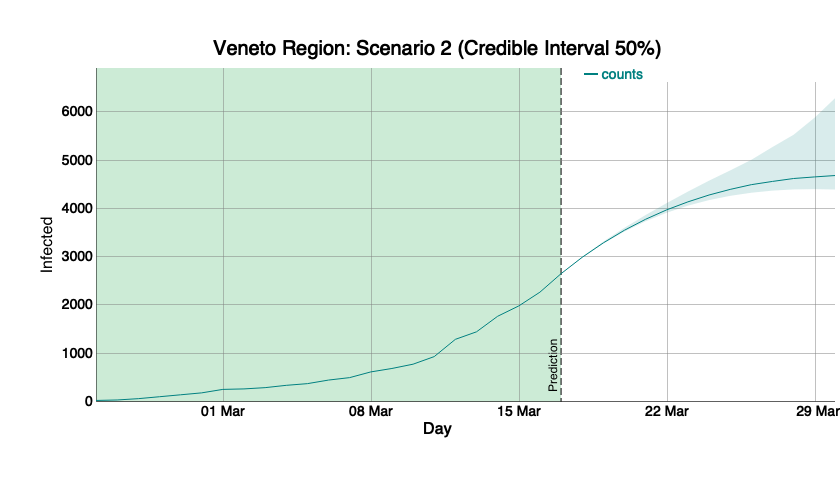
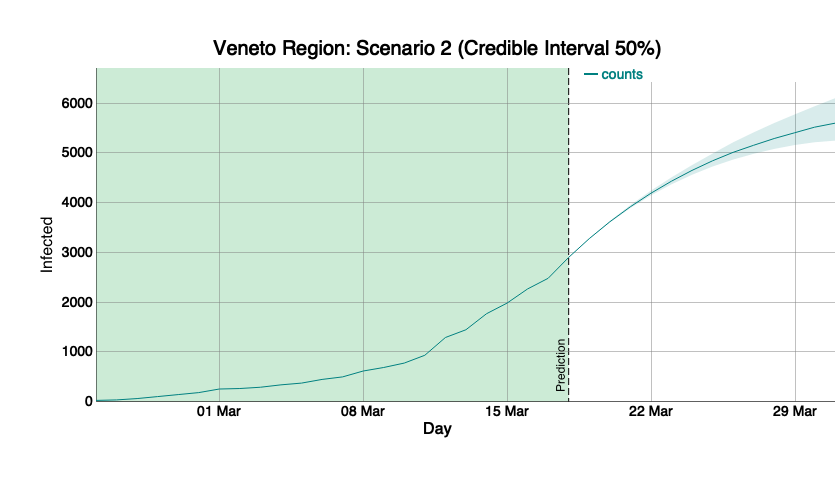
Add home page, navigation and theme

diff --git a/draft_analysis_Veneto_new.md b/draft_analysis_Veneto_new.md
@@ -105,7 +105,7 @@ Download the data from
 
 ## Load dataset
 
-    ## [1] 22
+    ## [1] 23
 
 Several outcomes can be potentially monitored, that is
 
@@ -226,7 +226,7 @@ beta (the slope) and forcing its value to be greater than
 ![](draft_analysis_Veneto_new_files/figure-gfm/R0%20forecast-1.png)<!-- -->
 
 R0 passes from a value of 5.64 in the initial phase to an estimated
-value of 1.32 at the ending of the 14-days forecast.
+value of 1.29 at the ending of the 14-days forecast.
 
 We want to make a short term forecast (14 days) with 3 scenario, based
 on the number of exposed people:
@@ -259,14 +259,14 @@ the previous estimation
 I0<-dat_csv$totale_attualmente_positivi[dim(dat_csv)[1]]; I0
 ```
 
-    ## [1] 2274
+    ## [1] 2488
 
 ``` r
 # initial number of recovered
 R0<-dat_csv$dimessi_guariti[dim(dat_csv)[1]]; R0
 ```
 
-    ## [1] 130
+    ## [1] 136
 
 ``` r
 # Veneto Region population
@@ -305,16 +305,16 @@ model1 <- bsts(log(beta_vec),
                niter = 1000)
 ```
 
-    ## =-=-=-=-= Iteration 0 Tue Mar 17 12:02:32 2020 =-=-=-=-=
-    ## =-=-=-=-= Iteration 100 Tue Mar 17 12:02:32 2020 =-=-=-=-=
-    ## =-=-=-=-= Iteration 200 Tue Mar 17 12:02:32 2020 =-=-=-=-=
-    ## =-=-=-=-= Iteration 300 Tue Mar 17 12:02:32 2020 =-=-=-=-=
-    ## =-=-=-=-= Iteration 400 Tue Mar 17 12:02:32 2020 =-=-=-=-=
-    ## =-=-=-=-= Iteration 500 Tue Mar 17 12:02:32 2020 =-=-=-=-=
-    ## =-=-=-=-= Iteration 600 Tue Mar 17 12:02:32 2020 =-=-=-=-=
-    ## =-=-=-=-= Iteration 700 Tue Mar 17 12:02:32 2020 =-=-=-=-=
-    ## =-=-=-=-= Iteration 800 Tue Mar 17 12:02:32 2020 =-=-=-=-=
-    ## =-=-=-=-= Iteration 900 Tue Mar 17 12:02:32 2020 =-=-=-=-=
+    ## =-=-=-=-= Iteration 0 Tue Mar 17 18:27:40 2020 =-=-=-=-=
+    ## =-=-=-=-= Iteration 100 Tue Mar 17 18:27:40 2020 =-=-=-=-=
+    ## =-=-=-=-= Iteration 200 Tue Mar 17 18:27:40 2020 =-=-=-=-=
+    ## =-=-=-=-= Iteration 300 Tue Mar 17 18:27:40 2020 =-=-=-=-=
+    ## =-=-=-=-= Iteration 400 Tue Mar 17 18:27:40 2020 =-=-=-=-=
+    ## =-=-=-=-= Iteration 500 Tue Mar 17 18:27:40 2020 =-=-=-=-=
+    ## =-=-=-=-= Iteration 600 Tue Mar 17 18:27:40 2020 =-=-=-=-=
+    ## =-=-=-=-= Iteration 700 Tue Mar 17 18:27:40 2020 =-=-=-=-=
+    ## =-=-=-=-= Iteration 800 Tue Mar 17 18:27:40 2020 =-=-=-=-=
+    ## =-=-=-=-= Iteration 900 Tue Mar 17 18:27:41 2020 =-=-=-=-=
 
 ``` r
 par(mfrow = c(1,1))
@@ -426,7 +426,7 @@ mu.upper<-c(dat_csv$totale_attualmente_positivi,I_seir_upr*N)
 mu.med<-xts(c(dat_csv$totale_attualmente_positivi,I_seir_med*N),order.by = c(days.before,days.ahead),frequency = 7)
 counts<-mu.med
 mu<-xts(x = as.matrix(cbind(counts,mu.lower,mu.upper)) , order.by = c(days.before,days.ahead))
-p <- dygraph(mu,main=paste("Veneto Region: Scenario 3  (Credible Interval ",100*50,"%)",sep = ""),ylab=" Infected",xlab="Day",height=400,width=800) %>%  dySeries(c("mu.lower", "counts", "mu.upper"),label="counts")
+p <- dygraph(mu,main=paste("Veneto Region: Scenario 3  (Credible Interval ",100*0.50,"%)",sep = ""),ylab=" Infected",xlab="Day",height=400,width=800) %>%  dySeries(c("mu.lower", "counts", "mu.upper"),label="counts")
 p<-p %>% dyLegend(show = "always", hideOnMouseOut = FALSE) %>%  dyShading(from = days.ahead[1], to = days.ahead[step.ahead], color = "#CCEBD6")%>% dyEvent(days.ahead[1], "Prediction", labelLoc = "bottom")
 p
 ```
@@ -434,9 +434,9 @@ p
 ![](draft_analysis_Veneto_new_files/figure-gfm/scenario%20plot%20-3.png)<!-- -->
 
 The 3 scenarios show different numbers. If we consider the second
-scenario, at the end of the 2 weeks (2020-03-30) the number of infected
-is (4688.784403).
+scenario, at the end of the 2 weeks (2020-03-31) the number of infected
+is (5608.1314227).
 
 In the next plot the cumulative number of infected.  
-At the end of the 2 weeks (2020-03-30) the total number of COVID19 cases
-is expected to be (8744.1993965).
+At the end of the 2 weeks (2020-03-31) the total number of COVID19 cases
+is expected to be (1.019809810^{4}).
